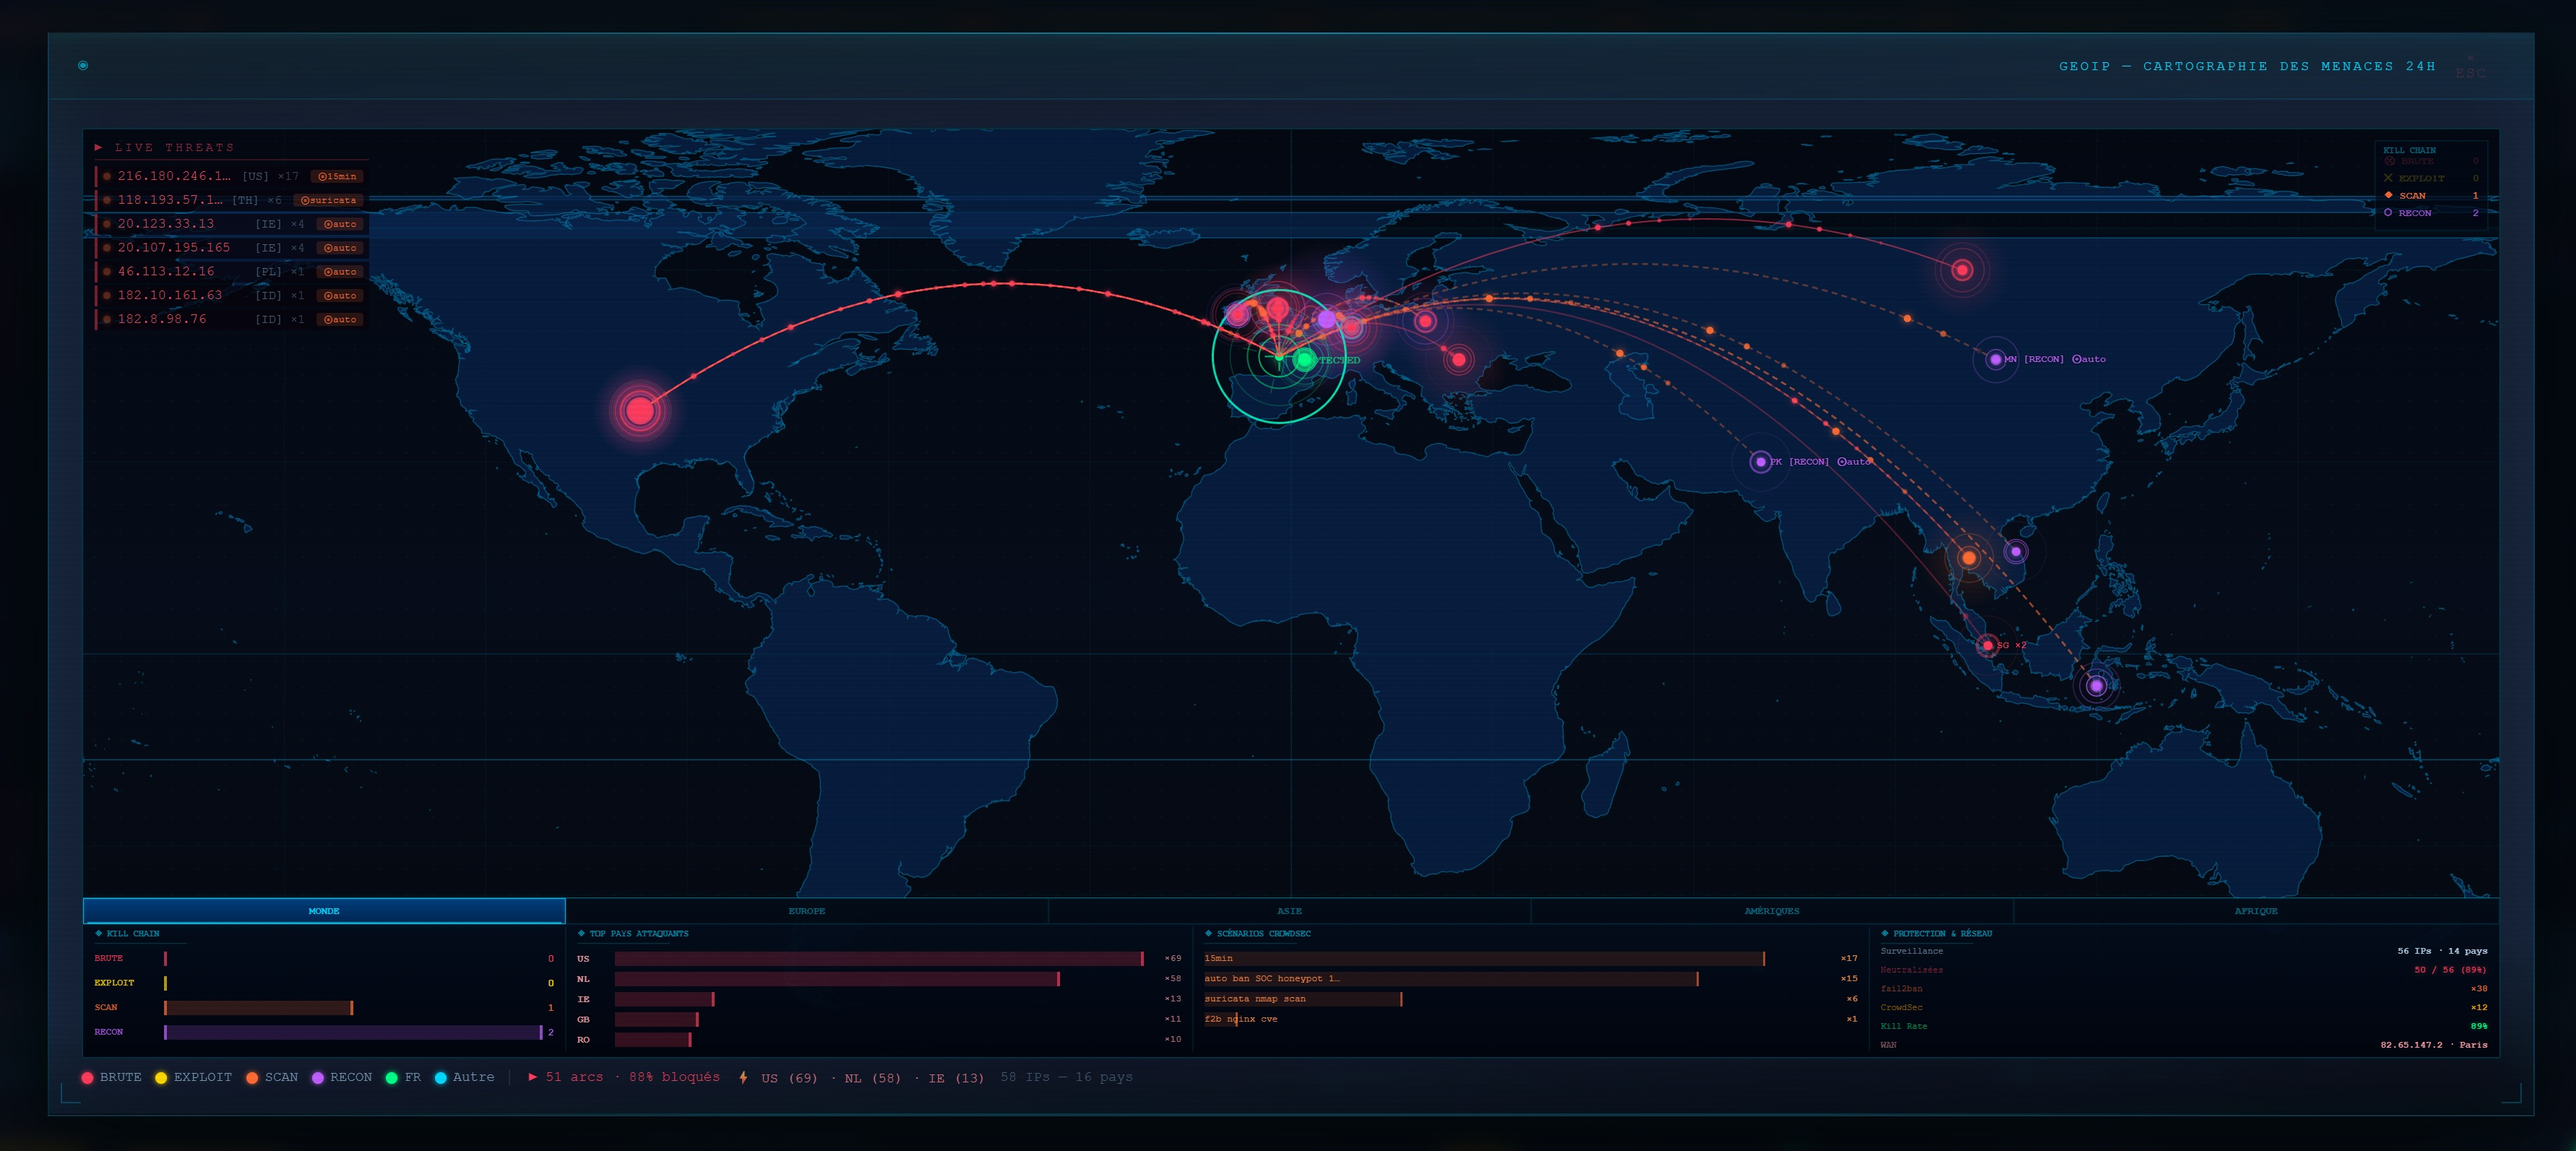
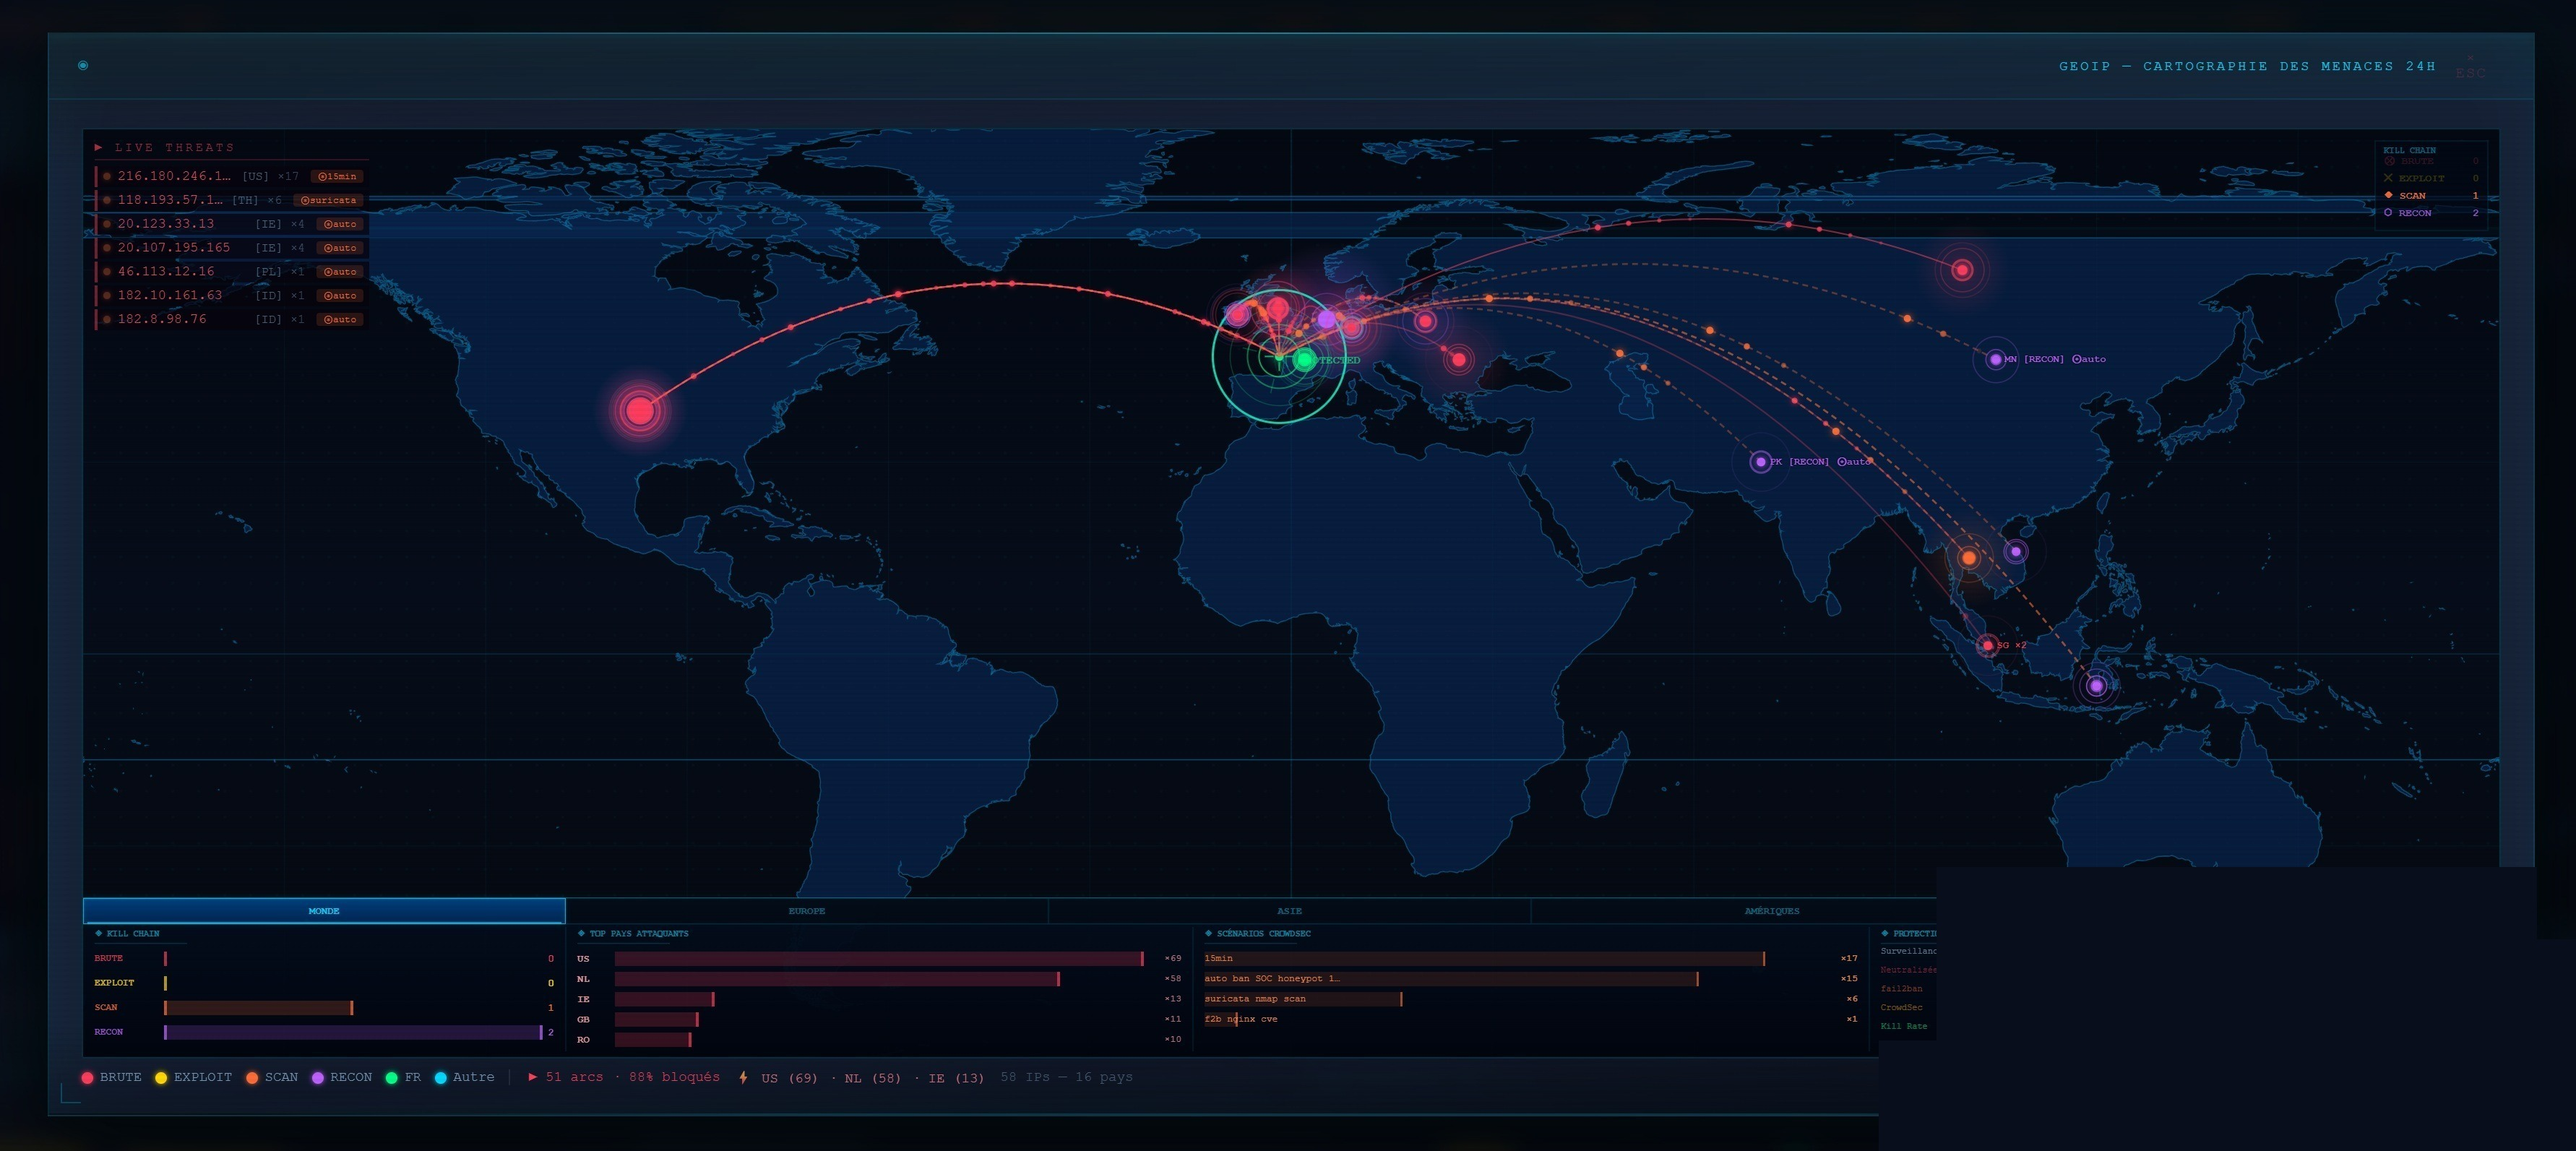
fix: header/footer standard + redact IP WAN soc-01

diff --git a/README.md b/README.md
@@ -1,35 +1,48 @@
 <div align="center">
 
-<img src="https://readme-typing-svg.herokuapp.com?font=JetBrains+Mono&size=36&duration=6000&pause=1000000000&color=00D9FF&center=true&vCenter=true&width=960&lines=%3E+SOC+Dashboard+—+Sécurité+Défensive_" alt="SOC Dashboard" />
+  <br></br>
 
-<br/>
+  <a href="https://github.com/0xCyberLiTech">
+    <img src="https://readme-typing-svg.herokuapp.com?font=JetBrains+Mono&size=50&duration=6000&pause=1000000000&color=FF0048&center=true&vCenter=true&width=1100&lines=%3ESOC_" alt="Titre dynamique SOC" />
+  </a>
 
-<p>
-  <img src="https://img.shields.io/badge/Version-v3.80-00D9FF?style=for-the-badge" />
-  <img src="https://img.shields.io/badge/Runtime-Debian%2013-A81D33?style=for-the-badge&logo=debian&logoColor=white" />
-  <img src="https://img.shields.io/badge/Python-3.11-3776AB?style=for-the-badge&logo=python&logoColor=white" />
-  <img src="https://img.shields.io/badge/nginx-Reverse%20Proxy-009639?style=for-the-badge&logo=nginx&logoColor=white" />
-  <img src="https://img.shields.io/badge/Statut-Production-00FF88?style=for-the-badge" />
-</p>
+  <br></br>
 
-<p>
-  <img src="https://img.shields.io/badge/CrowdSec-IPS%20%2B%20AppSec%20WAF-E01E5A?style=flat-square" />
-  <img src="https://img.shields.io/badge/Suricata-IDS%2090K%2B%20sigs-FF6600?style=flat-square" />
-  <img src="https://img.shields.io/badge/fail2ban-4%20hôtes-FFD700?style=flat-square" />
-  <img src="https://img.shields.io/badge/Tuiles-27-00D9FF?style=flat-square" />
-  <img src="https://img.shields.io/badge/Cloud-Zéro-00FF88?style=flat-square" />
-  <img src="https://img.shields.io/badge/IA-JARVIS%20intégré-9B59B6?style=flat-square" />
-</p>
+  <h2>Laboratoire numérique pour la cybersécurité, Linux & IT.</h2>
 
-<br/>
+  <p align="center">
+    <a href="https://0xcyberlitech.github.io/">
+      <img src="https://img.shields.io/badge/Portfolio-0xCyberLiTech-181717?logo=github&style=flat-square" alt="Portfolio" />
+    </a>
+    <a href="https://github.com/0xCyberLiTech">
+      <img src="https://img.shields.io/badge/Profil-GitHub-181717?logo=github&style=flat-square" alt="Profil GitHub" />
+    </a>
+    <a href="https://github.com/0xCyberLiTech/SOC/releases/latest">
+      <img src="https://img.shields.io/github/v/release/0xCyberLiTech/SOC?label=version" alt="Latest Release" />
+    </a>
+    <a href="https://github.com/0xCyberLiTech/SOC/blob/main/CHANGELOG.md">
+      <img src="https://img.shields.io/badge/📄%20CHANGELOG-SOC-blue" alt="Changelog" />
+    </a>
+    <a href="https://github.com/0xCyberLiTech?tab=repositories">
+      <img src="https://img.shields.io/badge/Dépôts-publics-blue?style=flat-square" alt="Dépôts publics" />
+    </a>
+  </p>
 
-<img src="./images/soc-01.jpg" alt="SOC — Carte mondiale des attaques" width="95%" />
+</div>
 
-<br/><br/>
+<div align="center">
+  <img src="https://img.icons8.com/fluency/96/000000/cyber-security.png" alt="CyberSec" width="80"/>
+</div>
 
-<i>Dashboard de sécurité monolithique opérationnel 24/7 — surveillance en temps réel de nginx, CrowdSec, Suricata IDS,<br/>
-fail2ban sur 4 hôtes et JARVIS IA. Aucune dépendance externe. Aucune donnée transmise à des tiers.</i>
+<div align="center">
+  <p>
+    <strong>Cybersécurité</strong> <img src="https://img.icons8.com/color/24/000000/lock--v1.png"/> • <strong>Linux Debian</strong> <img src="https://img.icons8.com/color/24/000000/linux.png"/> • <strong>Sécurité informatique</strong> <img src="https://img.icons8.com/color/24/000000/shield-security.png"/>
+  </p>
+</div>
 
+<div align="center">
+  <br/>
+  <img src="./images/soc-01.jpg" alt="SOC — Carte mondiale des attaques" width="95%" />
 </div>
 
 ---
@@ -322,15 +335,11 @@ Le dashboard SOC s'intègre avec [JARVIS](https://github.com/0xCyberLiTech/JARVI
 ---
 
 <div align="center">
+  <a href="https://github.com/0xCyberLiTech" target="_blank" rel="noopener">
+    <img src="https://skillicons.dev/icons?i=linux,debian,bash,docker,nginx,git,vim,python,markdown" alt="Skills" width="440">
+  </a>
+</div>
 
-<br/>
-
-[![JARVIS IA](https://img.shields.io/badge/Projet%20lié-JARVIS%20IA-9B59B6?style=for-the-badge&logo=github&logoColor=white)](https://github.com/0xCyberLiTech/JARVIS)
-&nbsp;
-[![Profil GitHub](https://img.shields.io/badge/Auteur-0xCyberLiTech-181717?style=for-the-badge&logo=github&logoColor=white)](https://github.com/0xCyberLiTech)
-
-<br/><br/>
-
-<sub>Projet homelab en production — <a href="https://github.com/0xCyberLiTech">0xCyberLiTech</a> · Cybersécurité défensive & IA locale</sub>
-
+<div align="center">
+  <b>🔒 Un guide proposé par <a href="https://0xcyberlitech.com/">0xCyberLiTech</a> • Pour des tutoriels accessibles à tous. 🔒</b>
 </div>
